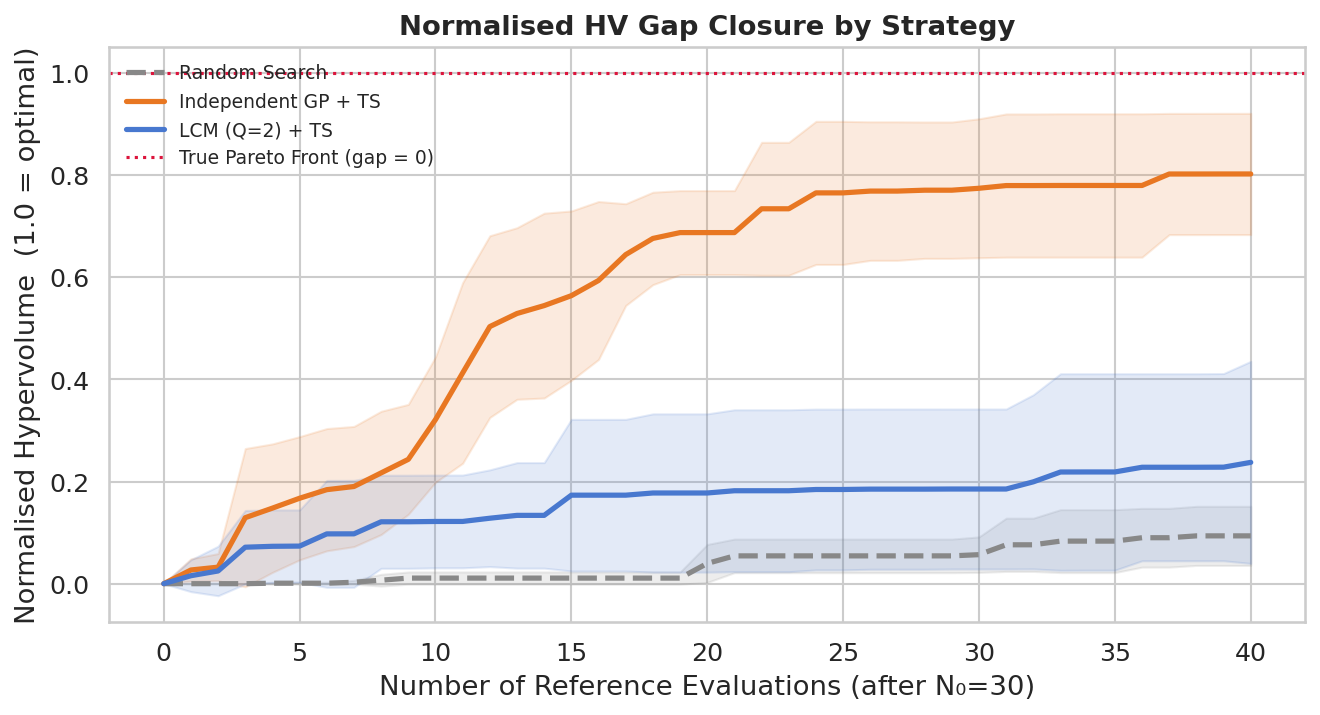
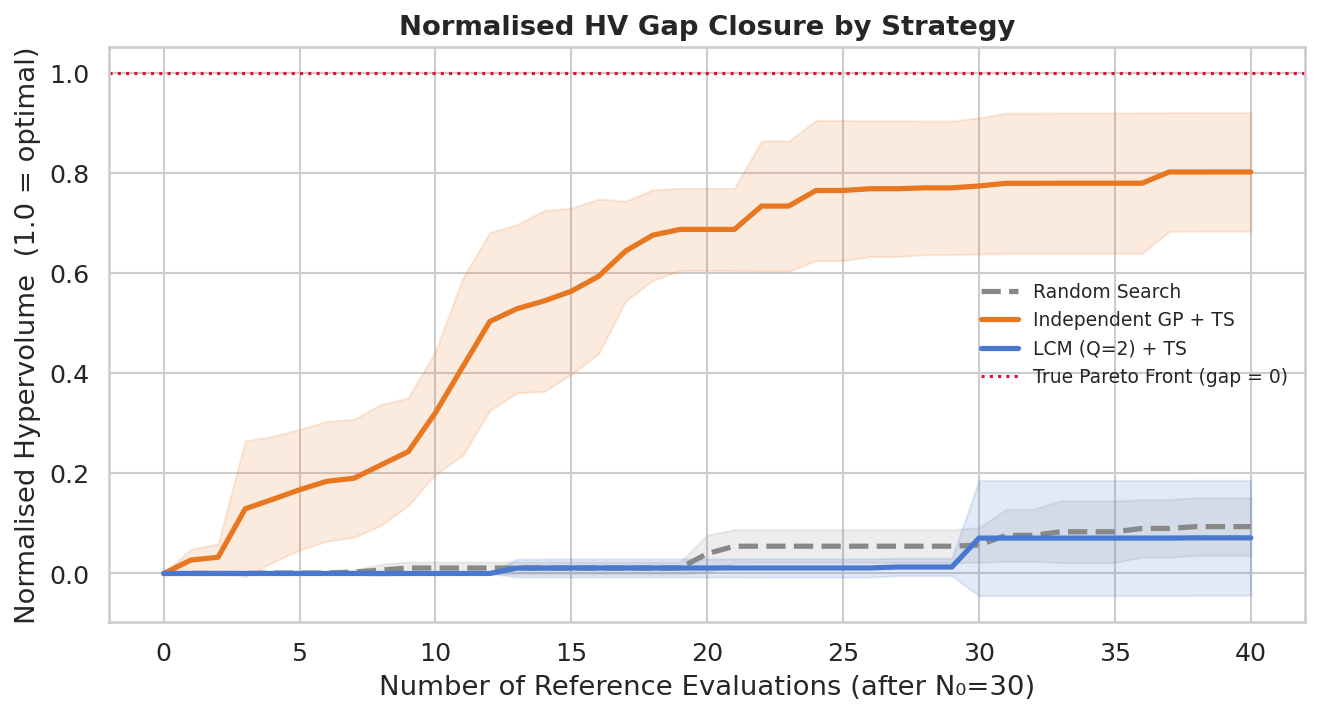
Revert to best run: restore outputs and n_epochs 150

diff --git a/src/gp_models.py b/src/gp_models.py
@@ -396,7 +396,7 @@ class LCM:
         ARD: bool = True,
         n_restarts: int = 2,
         num_inducing: int = 500,
-        n_epochs: int = 300,
+        n_epochs: int = 150,
         batch_size: int = 256,
     ):
         self.num_latents  = num_latents
